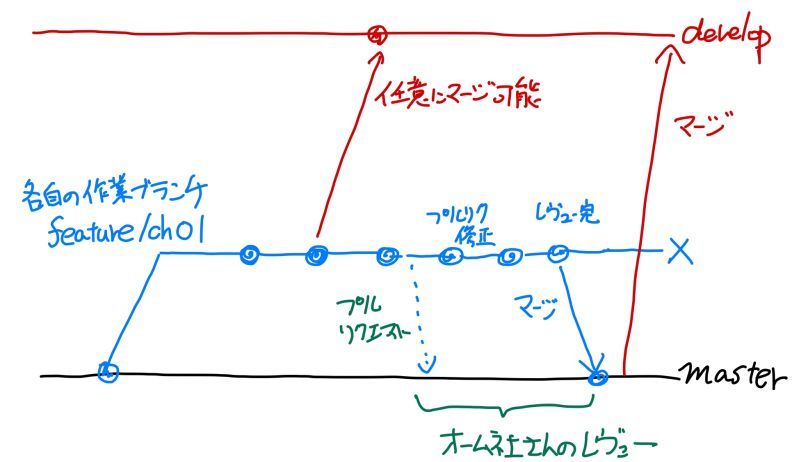
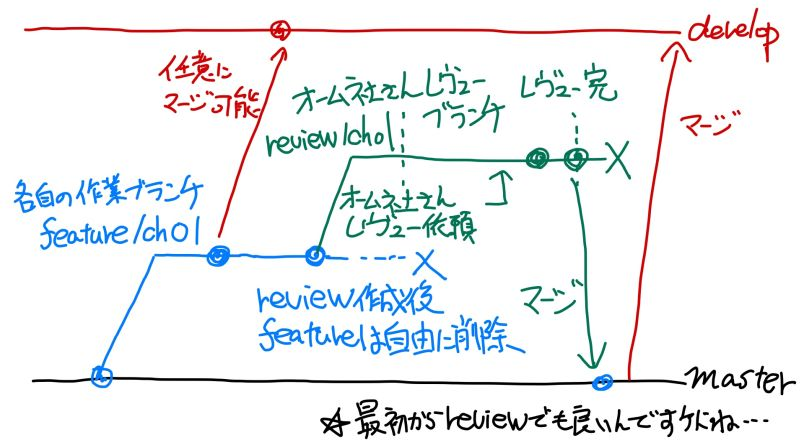
プロセスおよびマネジメント情報を追加

Changed region(s): [[0.0, 0.0312, 1.0, 1.0], [0.1562, 0.625, 0.1875, 0.7188]]

diff --git a/management/README.md b/management/README.md
@@ -1,0 +1,86 @@
+# マネジメント情報、第6版情報など
+
+今回のプロジェクトの分担、ツール、過去第6版情報などをまとめておきます。
+
+## 1. 分担、体制
+
+以下を参考に分担を確認ください。基本方針は「部単位でチームを組んで活動し、そのチーム内でなるべく統一できる進め方をする」とします。
+
+- [分担参考（キックオフ後に更新）](https://docs.google.com/spreadsheets/d/1y0pnQ1dw7dsS9S-NleFppV7_rzgG-F4O/edit#gid=1267732646)
+
+参考：各部の担当について仮見込み（超仮の内容、キックオフで調整します）
+
+- 1部：みずの（ほとんど完成）
+- 2部：岡澤さん、井芹さん、（松尾さん）、（みずの？）
+- 3部：鈴木カズさん、根本さん、マス金子、（松尾さん）、（調整中）
+- 4部：池田さん、山崎さん
+- 5部：マス金子、みずの、（調整中）
+- Appendix：松尾さん、みずの
+
+
+## 2. 書籍関連情報
+
+（今後手に入った場合）原著データ、第6版の日本語PDFデータを以下に置きます。
+
+- [原著データ（現状リンクなし）](http)
+- [第6版の日本語PDFデータ](https://drive.google.com/drive/folders/1PqOO8_2QOH2vWtB-ijhwSyVO7A5_CQ39)
+
+### 2.1 参考情報：SEPA（実践ソフトウェアエンジニアリング）の改版傾向
+
+第6版を参考とされる方も第8版を第9版に移行する方もこちらを確認しておくと便利かもしれません。
+
+![SEPA改版イメージ](./sepadata.jpg)
+
+- SEPAは改版のたびに目次構成を変える傾向があります
+- こちらの変更ですが、章タイトルは変わりますが「節」レベルでは変わってない場合も多いです
+- なので、節単位で同じタイトルの内容があれば、ほぼコピペで済むかもしれません
+- ただし、↑のコピペだとしれっと変わってる部分があるので注意です（過去50年→60年という記述など）
+
+
+## 3. 使用ツール（コミュニケーション系）
+
+コミュニケーションとして以下のツールを使います。（あくまでわすれた時向け程度のメモ）
+
+- [GitHub環境（プライベート版にした後に更新）](https://github.com/mizunori/sepa_tmp)
+- [Slack](https://sepa-trans.slack.com)
+- [Google Drive](https://drive.google.com/drive/folders/1icfVZFjA3yQT7D1YscOCJ_8BY9SpCEyQ)
+
+
+## 4. タスク管理・進捗管理方法
+
+進捗管理はGitHubの以下状況で確認かなと。できなさそうなら早めにアラーム上げてくださいな。
+
+- 各章のfeatureブランチ作成状況
+- ブランチがfeature/reviewに変更したかどうか
+- オーム社さんレビューが完了してmasterにマージした度合
+
+初期はやり方の共有で全体で打合せを頻度多めに実施、中間以降は2か月に1回くらいの確認をするくらいかなと考えてます。
+
+
+## 5. （別論点）翻訳担当者への経費の支払いについて
+
+翻訳プロジェクトの進め方とは関係ありませんが、各担当者の皆様へ経費の支払いができる状況かと考えております。以下を参考にみずのまで請求してください。
+
+### 参考：印税についての方針
+
+- 今回の書籍は「手に入れてもらうためできる限り安くする」ため、印税の割合を最低限としてます
+- たぶん翻訳者側の利益は殆どでないと思ってください…
+- あわせて、黒字が出たとしても寄付なり打ち上げなりで利益ゼロとする予定です（打ち上げはやる）
+- 上記の状況ですが、担当者の方に損とならないよう、経費支払いは作業段階からできるようにします
+- 経費はみずの個人事業でひとまずカバー、後ほど印税で回収とさせて頂く予定です
+
+### 経費の範囲
+
+ひとまず以下の範囲で対応します。下記申請フォームに記入いただいて振り込みを行う予定です。
+
+- 過去の第8版、今回の第9版を購入した場合も含めた書籍代金
+- 担当章に出てくる参考文献の日本語版を購入した場合の書籍代金
+- その他、今後（無さそうですが…）交通費等が発生した場合の費用
+
+### 申請フォーム
+
+以下リンクのExcelに記述してSlackなどで提出してください。（書籍用と交通費用に分ける予定）
+- [申請フォームExcel置き場](https://drive.google.com/drive/folders/1x3SOd2pa2QsWHYNkljfEPzMvWEGZZvwD)
+
+領収書やレシートなどがあれば、写真撮るなりPDFなりで添付可能ならお願いします。（無くてもOK、過去の内容も申請しておいてください）
+

diff --git a/process/README.md b/process/README.md
@@ -1,0 +1,33 @@
+# 各章の作業プロセスおよびレビュー案（簡易、仮）
+
+今回のプロジェクトのチーム体制を前提として各章の作業プロセスをまとめてます。
+
+## 1. 各章の完成までの作業イメージ
+
+各章の担当者における完成までの作業イメージを以下の図で記載します。
+
+![作業イメージ](./Process_Workflow.jpg)
+
+具体的な進め方は本文書の「3. 基本的な方針」と「4. （想定課題を考慮した）レビューとプロセスによる活動方針」を参考としてください。
+
+## 2. 想定課題
+
+各担当者は自分の担当章のfeature/chXX（XXに章番号を入れる）を作成し、そのブランチで作業ください。半分ほどできた段階でdevelopにマージいただく、という手続は任意で行ってください。
+
+各章の翻訳完了した場合には、masterブランチにプルリクエストを行って、オーム社の石田さんにレビューを行っていただく想定です。
+
+翻訳チーム側の作業は担当者とレビュー担当者の2名程度での作業となると予想しております。レビューや修正を行う場合のプルリクなどの方法については各自におまかせします。
+
+## 3. 基本的な方針
+
+オーム社さんへのレビューは各自の作業ブランチのfeature/chXXの成果物をオーム社さんに見てもらうか、masterへのプルリクエストを行ったうえでレビューなどを行ってください。
+
+masterへのプルリクを行った際のレビュー方法は次のようになります。
+
+
+## 4. （想定課題を考慮した）レビューとプロセスによる活動方針
+
+本文書のようなマニュアル、.textlintrcのような設定ファイルはmasterへ直接更新ください。
+textlint関連のファイルは他の章へ影響がある可能性があるため、更新前に各章のlintを実施して問題がないか確認することを推奨します。
+
+なお、textlint設定の調整方法に関しては、[こちら](../textlint/README.md)の「3. textlintルール対応参考（緩和方法、追加方法など）」を確認ください。

diff --git a/README.md b/README.md
@@ -28,3 +28,23 @@
     - 翻訳時のGitブランチ運用方法
     - オーム社さんのレビュー時のブランチ運用方法
     - 環境改善例
+
+5. [各章の作業プロセスおよびレビュー案（簡易、仮）](./process/README.md)
+
+    今回のプロジェクトのチーム体制を前提として各章の作業プロセスをまとめてます。きっと最後まで仮。
+
+    - 各章の完成までの作業イメージ
+    - 想定課題
+    - 基本的な方針
+    - （想定課題を考慮した）レビューとプロセスによる活動方針
+
+6. [マネジメント情報、第6版情報など](./management/README.md)
+
+    今回のプロジェクトの分担、ツール、過去第6版情報などをまとめておきます。適宜更新します。
+
+    - 分担、体制
+    - 書籍関連情報
+    - 使用ツール（コミュニケーション系）
+    - タスク管理・進捗管理方法
+    - （別論点）翻訳担当者への経費の支払いについて
+
